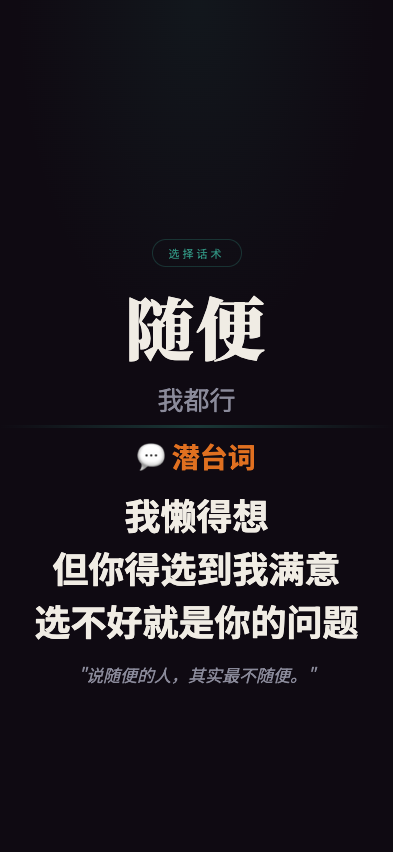
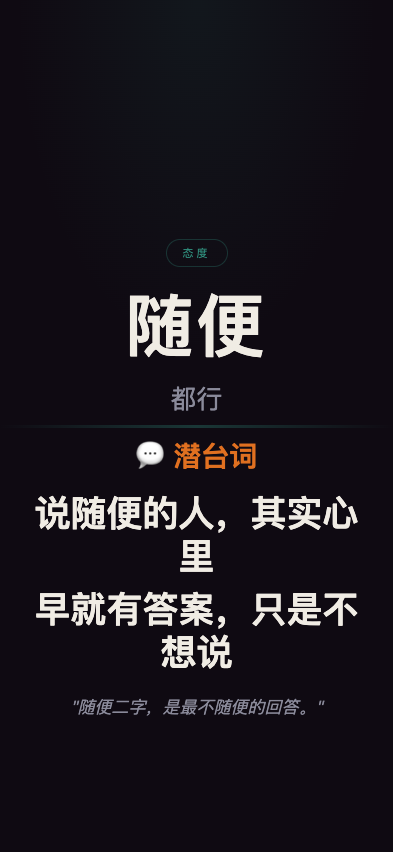
feat: 职场生存法则 screenshot - suibian

diff --git a/wuliao-tools/tools/biz-speak/scenes/suibian.html b/wuliao-tools/tools/biz-speak/scenes/suibian.html
@@ -41,19 +41,18 @@
 </head>
 <body>
   <div class="top">
-    <div class="tag">选择话术</div>
+    <div class="tag">态度</div>
     <div class="main-title">随便</div>
-    <div class="sub-title">我都行</div>
+    <div class="sub-title">都行</div>
   </div>
   <div class="divider"></div>
   <div class="bottom">
     <div class="truth-label">💬 潜台词</div>
     <div class="truth-lines">
-      <div class="truth-line">我懒得想</div>
-      <div class="truth-line">但你得选到我满意</div>
-      <div class="truth-line">选不好就是你的问题</div>
+      <div class="truth-line">说随便的人，其实心里</div>
+      <div class="truth-line">早就有答案，只是不想说</div>
     </div>
-    <div class="quote">"说随便的人，其实最不随便。"</div>
+    <div class="quote">"随便二字，是最不随便的回答。"</div>
   </div>
 </body>
 </html>
